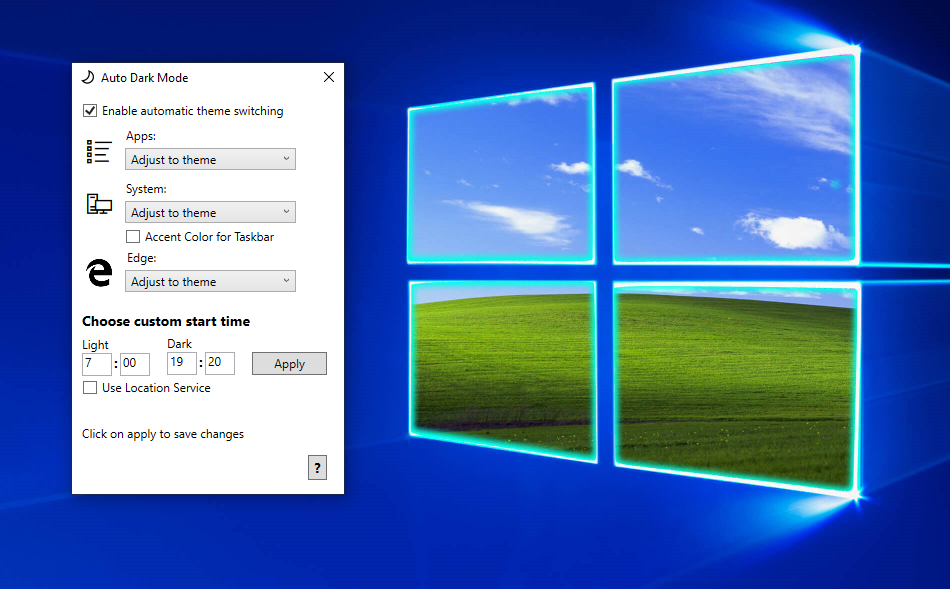
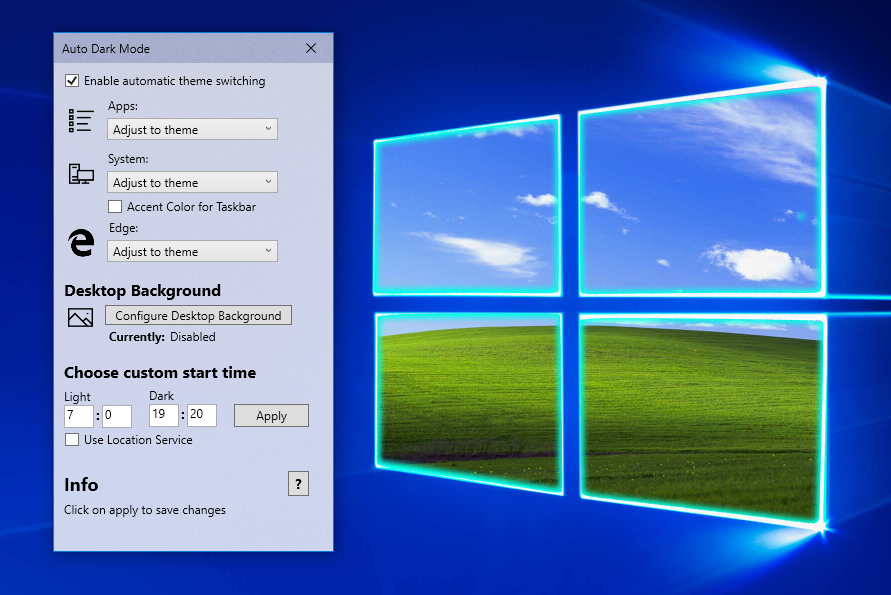
added: telegram group link

diff --git a/AutoThemeChanger/AboutWindow.xaml b/AutoThemeChanger/AboutWindow.xaml
@@ -35,5 +35,7 @@
         <TextBlock Name="RestartText" HorizontalAlignment="Left" Margin="10,337,0,0" TextWrapping="Wrap" Text="  " VerticalAlignment="Top" Foreground="Red"/>
         <TextBlock HorizontalAlignment="Left" Margin="10,291,0,0" TextWrapping="Wrap" Text="{x:Static p:Resources.lblLanguage}" VerticalAlignment="Top"/>
         <Button Name="FluentWPF" Content="FluentWPF" HorizontalAlignment="Left" Margin="109,235,0,0" VerticalAlignment="Top" Width="93" Height="21" Click="FluentWPF_Click"/>
+        <Image HorizontalAlignment="Left" Height="35" Margin="103,92,0,0" VerticalAlignment="Top" Width="33" Source="Resources/Telegram_Logo.png"/>
+        <TextBlock x:Name="telegramTextBlock" HorizontalAlignment="Left" Margin="141,103,0,0" TextWrapping="Wrap" Text="Telegram" VerticalAlignment="Top" MouseEnter="TelegramTextBlock_MouseEnter" MouseLeave="TelegramTextBlock_MouseLeave" MouseDown="TelegramTextBlock_MouseDown"/>
     </Grid>
 </Window>

diff --git a/AutoThemeChanger/AboutWIndow.xaml.cs b/AutoThemeChanger/AboutWIndow.xaml.cs
@@ -177,5 +177,22 @@ namespace AutoThemeChanger
                 "OUT OF OR IN CONNECTION WITH THE SOFTWARE OR THE USE OR OTHER DEALINGS IN THE SOFTWARE.";
             MessageBox.Show(messageBoxText, "FluentWPF License Information");
         }
+
+        private void TelegramTextBlock_MouseEnter(object sender, MouseEventArgs e)
+        {
+            telegramTextBlock.Foreground = Brushes.Blue;
+            telegramTextBlock.Cursor = Mouse.OverrideCursor = Cursors.Hand;
+        }
+
+        private void TelegramTextBlock_MouseLeave(object sender, MouseEventArgs e)
+        {
+            telegramTextBlock.Foreground = Foreground;
+            telegramTextBlock.Cursor = Mouse.OverrideCursor = null;
+        }
+
+        private void TelegramTextBlock_MouseDown(object sender, MouseButtonEventArgs e)
+        {
+            System.Diagnostics.Process.Start("https://t.me/autodarkmode");
+        }
     }
 }

diff --git a/AutoThemeChanger/DesktopBGui.xaml.cs b/AutoThemeChanger/DesktopBGui.xaml.cs
@@ -31,12 +31,7 @@ namespace AutoThemeChanger
         private void darkTheme()
         {
             RegEditHandler regEditHandler = new RegEditHandler();
-            if (regEditHandler.AppsUseLightTheme())
-            {
-                Foreground = Brushes.Black;
-                Background = Brushes.White;
-            }
-            else
+            if (!regEditHandler.AppsUseLightTheme())
             {
                 Foreground = Brushes.White;
                 Background = Brushes.Black;

diff --git a/README.md b/README.md
@@ -3,7 +3,7 @@ Automatically switches between the dark and light theme of Windows 10 at shedule
 ![Screenshot](https://github.com/Armin2208/Windows-Auto-Night-Mode/blob/master/screenshot.png)
 
 ## Description
-Microsoft provides a dark theme in Windows 10. You can switch manually between the implemented dark and white theme on the Settings app. On the other side some programs or operating systems are allowing a automatic switch at a specific time. While it is bright outside, you have a bright OS. At afternoon the sun starts to set, so your operating system also switches to a darker look to take care of your eyes.
+Microsoft provides a dark theme in Windows 10. You can switch manually between the implemented dark and white theme on the Settings app. On the other hand some programs or operating systems are allowing a automatic switch at a specific time. While it is bright outside, you have a bright and clearly readable OS. At afternoon the sun starts to set and your operating system also switches to a darker look to take care of your eyes.
 
 I wanted to have this kind of solution in Windows, so I wrote this little program.
 
@@ -13,6 +13,7 @@ With enabling the automatic theme switcher in the app it creates a task in the T
 - Easy to use and clean user-interface.
 - Theme switch based on custom times.
 - Theme switch based on the sunrise and sunset of your location.
+- Desktop background switch.
 - Easy theme switch with the Jump-List from the Startmenu or Taskbar.
 - You can choose if only Apps should change their theme, or both apps and the system.
 - Support for Accent Color on the Taskbar and other system elements.
@@ -22,7 +23,8 @@ With enabling the automatic theme switcher in the app it creates a task in the T
 [Click here to download the newest version of Windows Auto Dark Mode!](https://github.com/Armin2208/Windows-Auto-Night-Mode/releases)
 
 ## Note about the download
-Google Chrome, Windows Smartscreen and some antivirus-programs may warn you from downloading this program. This is caused to the small user base. Sadly I can't change anything about that.
+Windows Smartscreen and some antivirus software may warn you from downloading this program. This is caused to the small user base. Sadly I can't change anything about that.
 
 ## Support
+[Joun my Telegram group to get early access to new versions](https://t.me/autodarkmode)
 [Here you can donate me a coffee for my work. Thank you <3](https://www.paypal.me/arminosaj)
